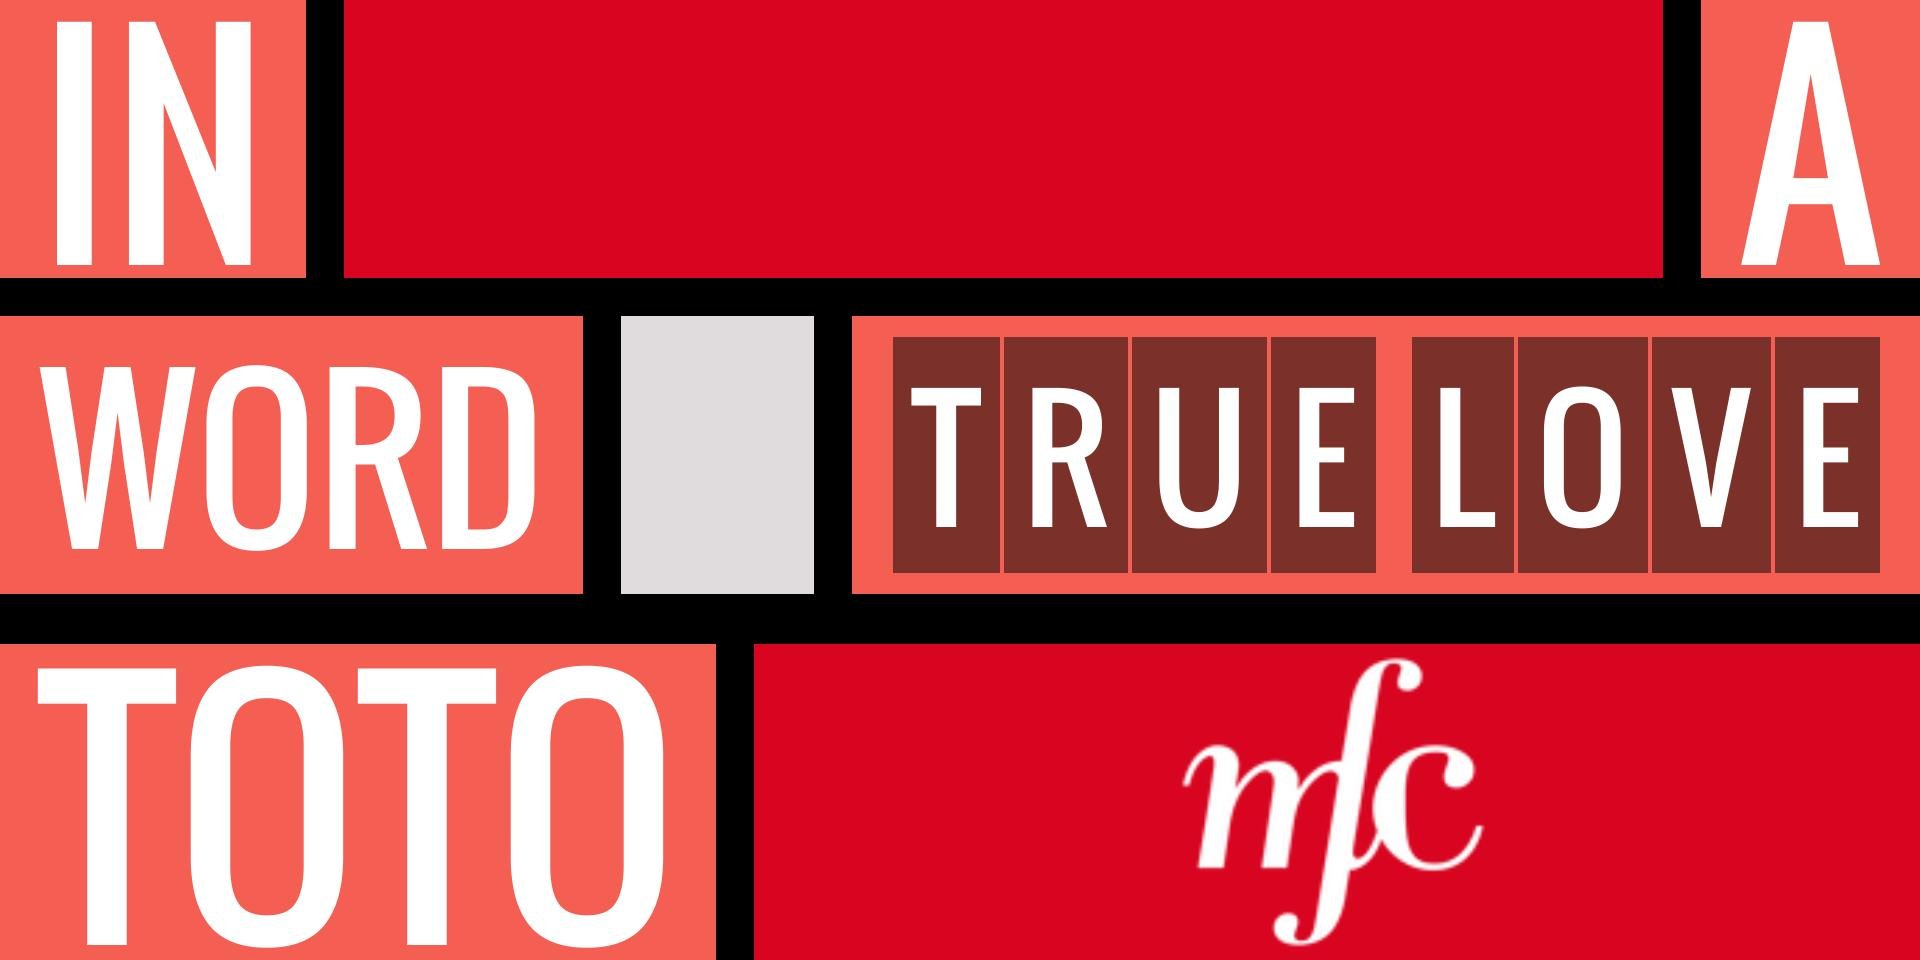
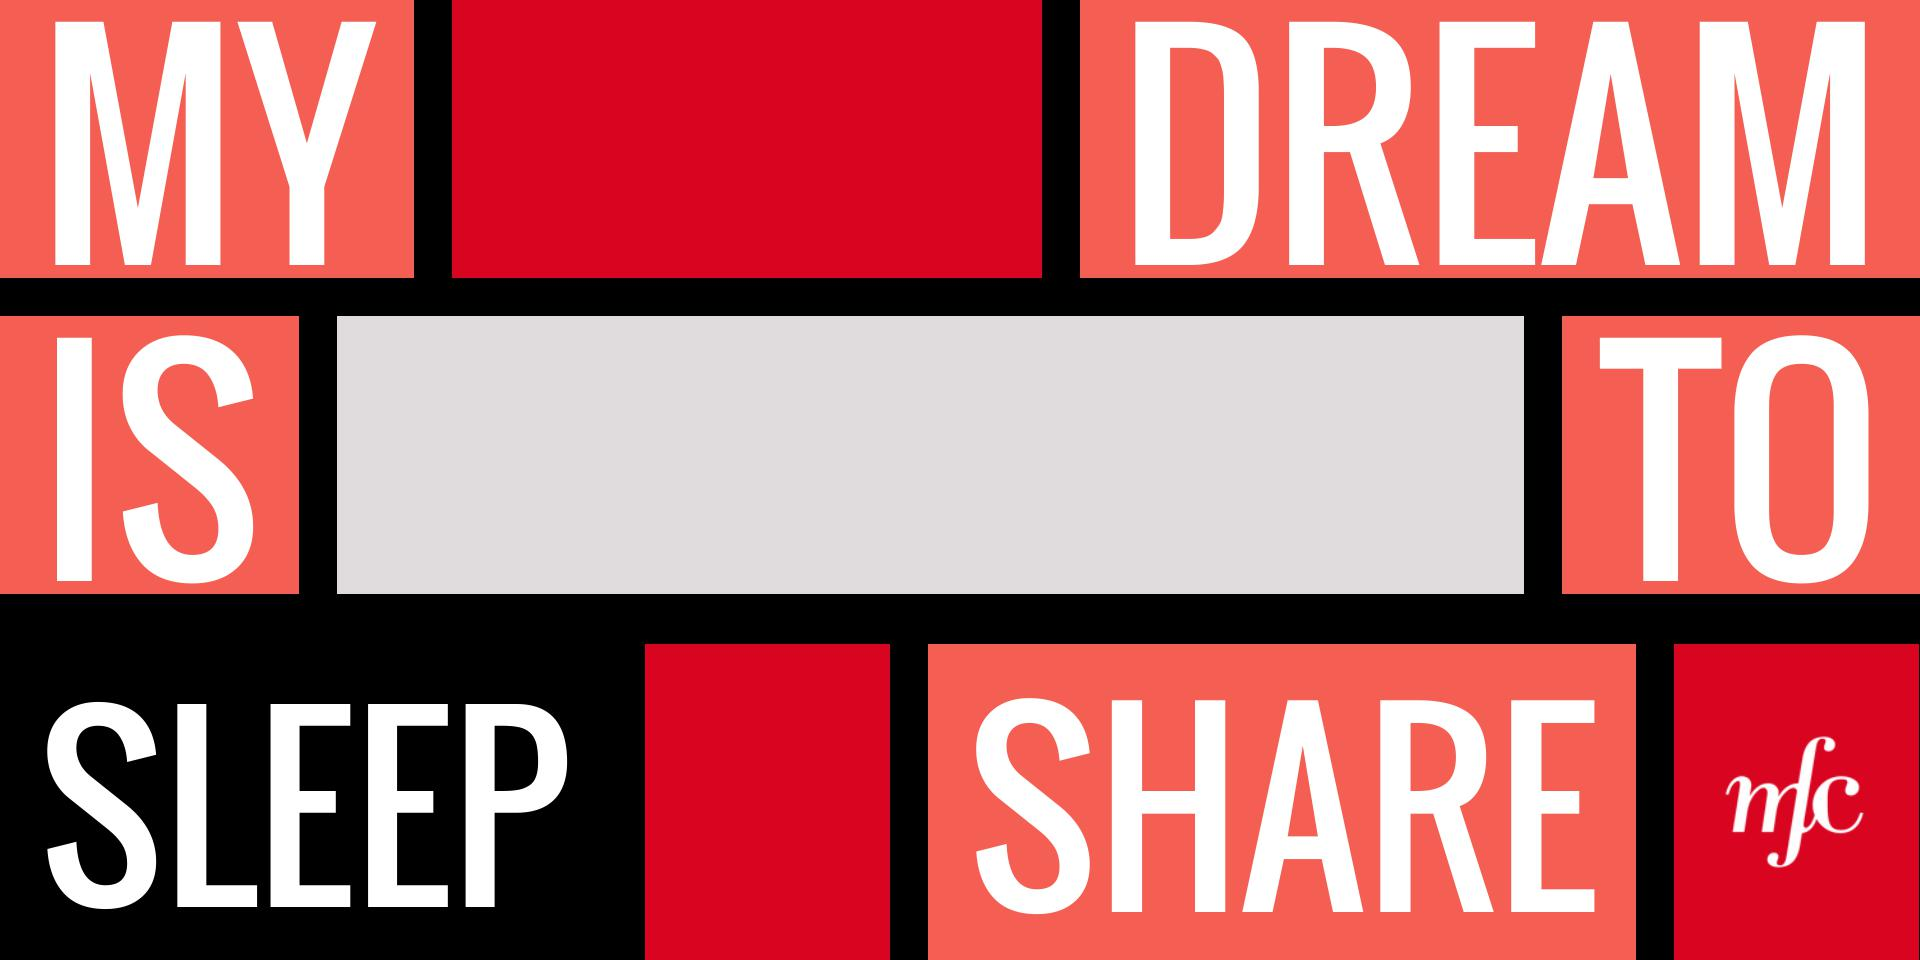
- Update

diff --git a/screenshot/html/js/screenshot-03.js b/screenshot/html/js/screenshot-03.js
@@ -11,15 +11,6 @@
                 var sentence = response.sentence;
                 //remove , ! . and space more than 1
                 sentence.phase = sentence.phase.replace( new RegExp('[,.!]', 'g'), '' ).replace( new RegExp('\\s+', 'g'), ' ' );
-                //prepare keyword
-                var keyword = [];
-                $.each(sentence.keyword.split(''), function(index, char) {
-                    keyword.push(
-                        char == ' '
-                        ? char
-                        : '<strong>' + char + '</strong>'
-                    );
-                });
 
                 var $rows = $('.sentence-row');
                 (function() {
@@ -57,10 +48,10 @@
                             var _block = $(_blockTpl)
                                 .html('<span>' + (function() {
                                     return word == '{keyword}'
-                                        ? '<em class="scene-03__keyword">' + keyword.join('') + '</em>'
+                                        ? '<em class="scene-03__keyword">' + sentence.keyword + '</em>'
                                         : word;
                                 })() + '</span>')
-                                .addClass('color-style-03')
+                                .addClass( word =='{keyword}' ? 'color-style-04' : 'color-style-03')
                                 .css({
                                     height: rowHeight,
                                     fontSize: initialFontSize,
@@ -153,9 +144,10 @@
                     });
 
                     //insert logo nfc on last space block of last row
-                    $('.block-space').last().css({
-                        backgroundImage: 'url(' + response.logo + ')'
-                    });
+                    $('.block-space').last()
+                        .html('<span class="mfc-logo"></span>')
+                        .removeClass('color-style-02')
+                        .addClass('color-style-01');
                 })();
             })
             .fail(function() {

diff --git a/js/video.js b/js/video.js
@@ -1048,15 +1048,6 @@
         var sentence = MFC.Video.config.sentence;
         //remove , ! . and space more than 1
         sentence.phase = sentence.phase.replace( new RegExp('[,.!]', 'g'), '' ).replace( new RegExp('\\s+', 'g'), ' ' );
-        //prepare keyword
-        var keyword = [];
-        $.each(sentence.keyword.split(''), function(index, char) {
-            keyword.push(
-                char == ' '
-                ? char
-                : '<strong>' + char + '</strong>'
-            );
-        });
 
         //do something before start scene 03
         //...
@@ -1168,10 +1159,10 @@
                         var _block = $(_blockTpl)
                             .html('<span>' + (function() {
                                 return word == '{keyword}'
-                                    ? '<em class="scene-03__keyword ' + (isKeywordHidden ? '' : 'visible') + '">' + keyword.join('') + '</em>'
+                                    ? '<em class="scene-03__keyword ' + (isKeywordHidden ? '' : 'visible') + '">' + sentence.keyword + '</em>'
                                     : word;
                             })() + '</span>')
-                            .addClass('color-style-03')
+                            .addClass( word =='{keyword}' ? 'color-style-04' : 'color-style-03')
                             .css({
                                 height: rowHeight,
                                 fontSize: rowHeight,
@@ -1263,9 +1254,10 @@
                     }
                 });
                 //insert logo nfc on last space block of last row
-                $('.block-space').last().css({
-                    backgroundImage: 'url(' + MFC.Video.imageManager.get( 'logo_normal' ) + ')'
-                });
+                $('.block-space').last()
+                    .html('<span class="mfc-logo"></span>')
+                    .removeClass('color-style-02')
+                    .addClass('color-style-01');
             }, 250 );
             $(window).on( 'resize', _preparingContent );
             _preparingContent();

diff --git a/css/video.css b/css/video.css
@@ -542,10 +542,21 @@ strong {
                 width: 0;
                 padding: 0;
                 margin: 0;
-                background-repeat: no-repeat;
-                background-position: center center;
-                background-size: contain;
             }
+                .scene-03 .block-space span.mfc-logo {
+                    display: block;
+                    width: 60%;
+                    height: 60%;
+                    position: absolute;
+                    top: 0;
+                    bottom: 0;
+                    left: 0;
+                    right: 0;
+                    margin: auto;
+                    z-index: 1;
+                    background: url(../images/logo.png) no-repeat center center;
+                    background-size: contain;
+                }
             .scene-03 .sentence-row {
                 position: absolute;
                 width: 100%;
@@ -582,12 +593,6 @@ strong {
                     font-style: normal;
                     white-space: nowrap;
                 }
-                    .scene-03 .sentence-row .block span .scene-03__keyword > strong {
-                        background: rgba(0,0,0,.5);
-                        margin: 0 2px;
-                        padding: 0 0.05em;
-                        font-weight: normal;
-                    }
                 .scene-03 .sentence-row .block span .scene-03__keyword.visible {
                     visibility: visible;
                 }

diff --git a/screenshot/html/css/screenshot.css b/screenshot/html/css/screenshot.css
@@ -233,10 +233,21 @@ strong {
                 width: 0;
                 padding: 0;
                 margin: 0;
-                background-repeat: no-repeat;
-                background-position: center center;
-                background-size: contain;
             }
+                .scene-03 .block-space span.mfc-logo {
+                    display: block;
+                    width: 60%;
+                    height: 60%;
+                    position: absolute;
+                    top: 0;
+                    bottom: 0;
+                    left: 0;
+                    right: 0;
+                    margin: auto;
+                    z-index: 1;
+                    background: url(../images/logo.png) no-repeat center center;
+                    background-size: contain;
+                }
             .scene-03 .sentence-row {
                 position: absolute;
                 width: 100%;
@@ -272,9 +283,3 @@ strong {
                     font-style: normal;
                     white-space: nowrap;
                 }
-                    .scene-03 .sentence-row .block span .scene-03__keyword > strong {
-                        background: rgba(0,0,0,.5);
-                        margin: 0 2px;
-                        padding: 0 0.05em;
-                        font-weight: normal;
-                    }
